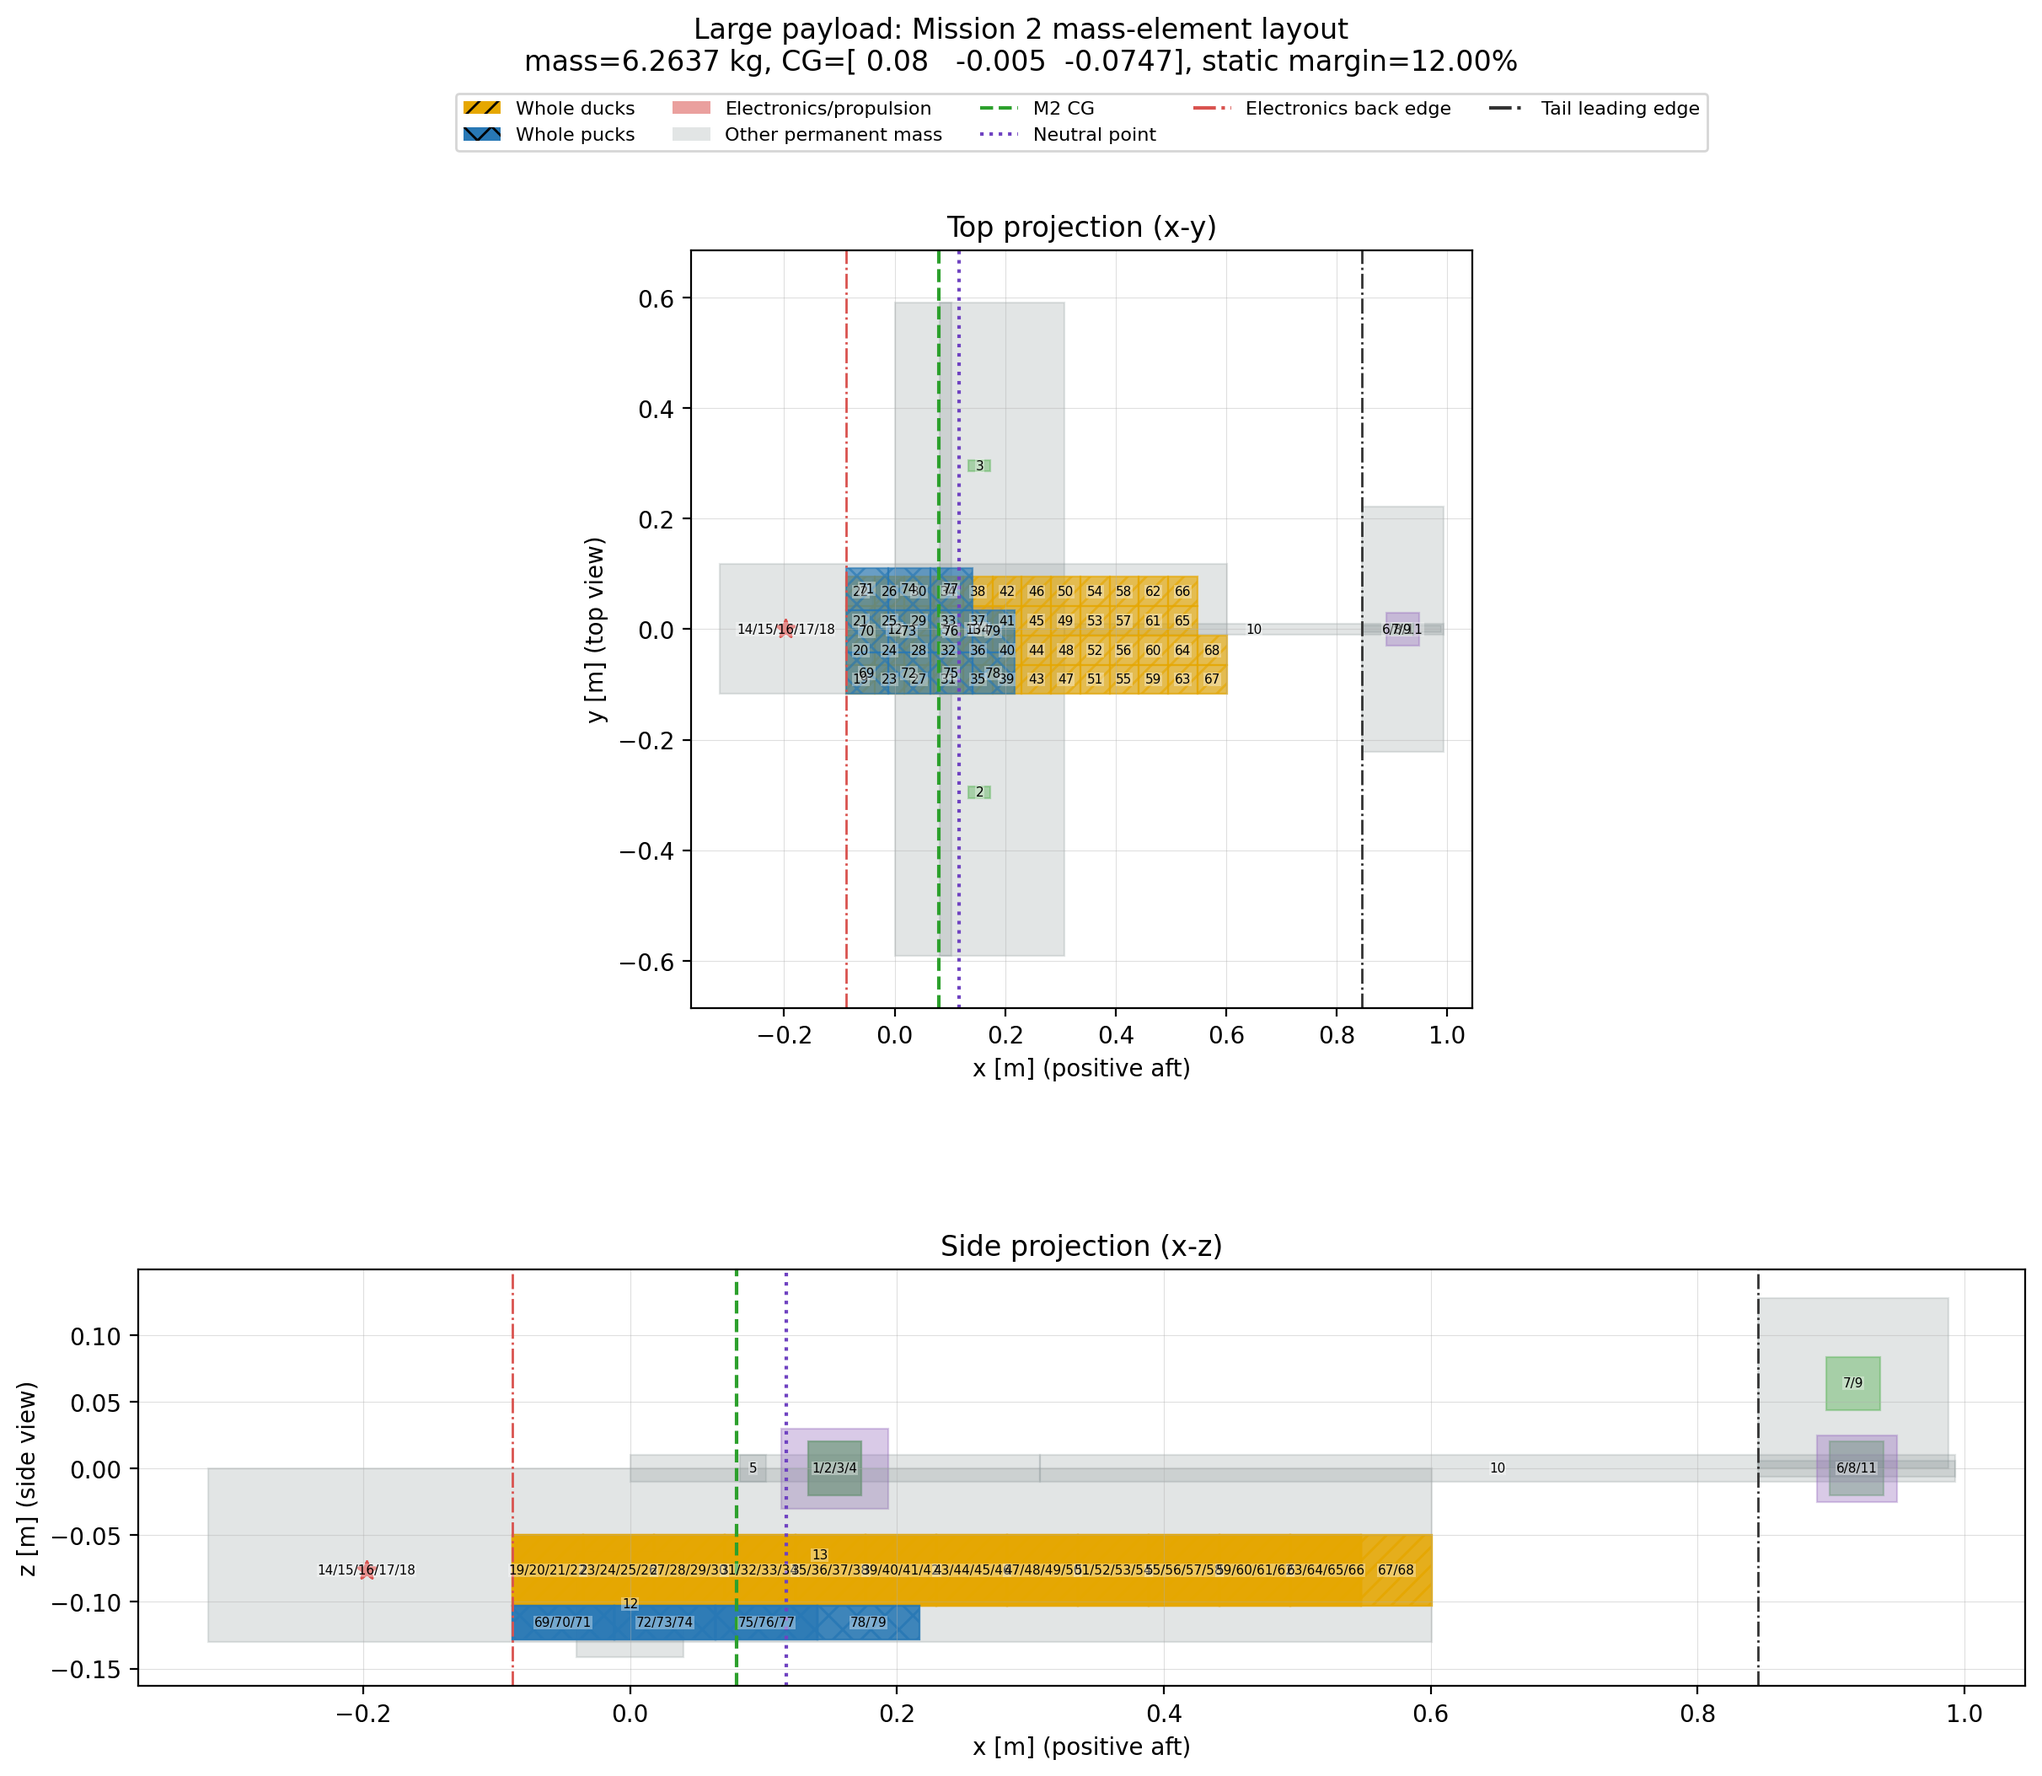
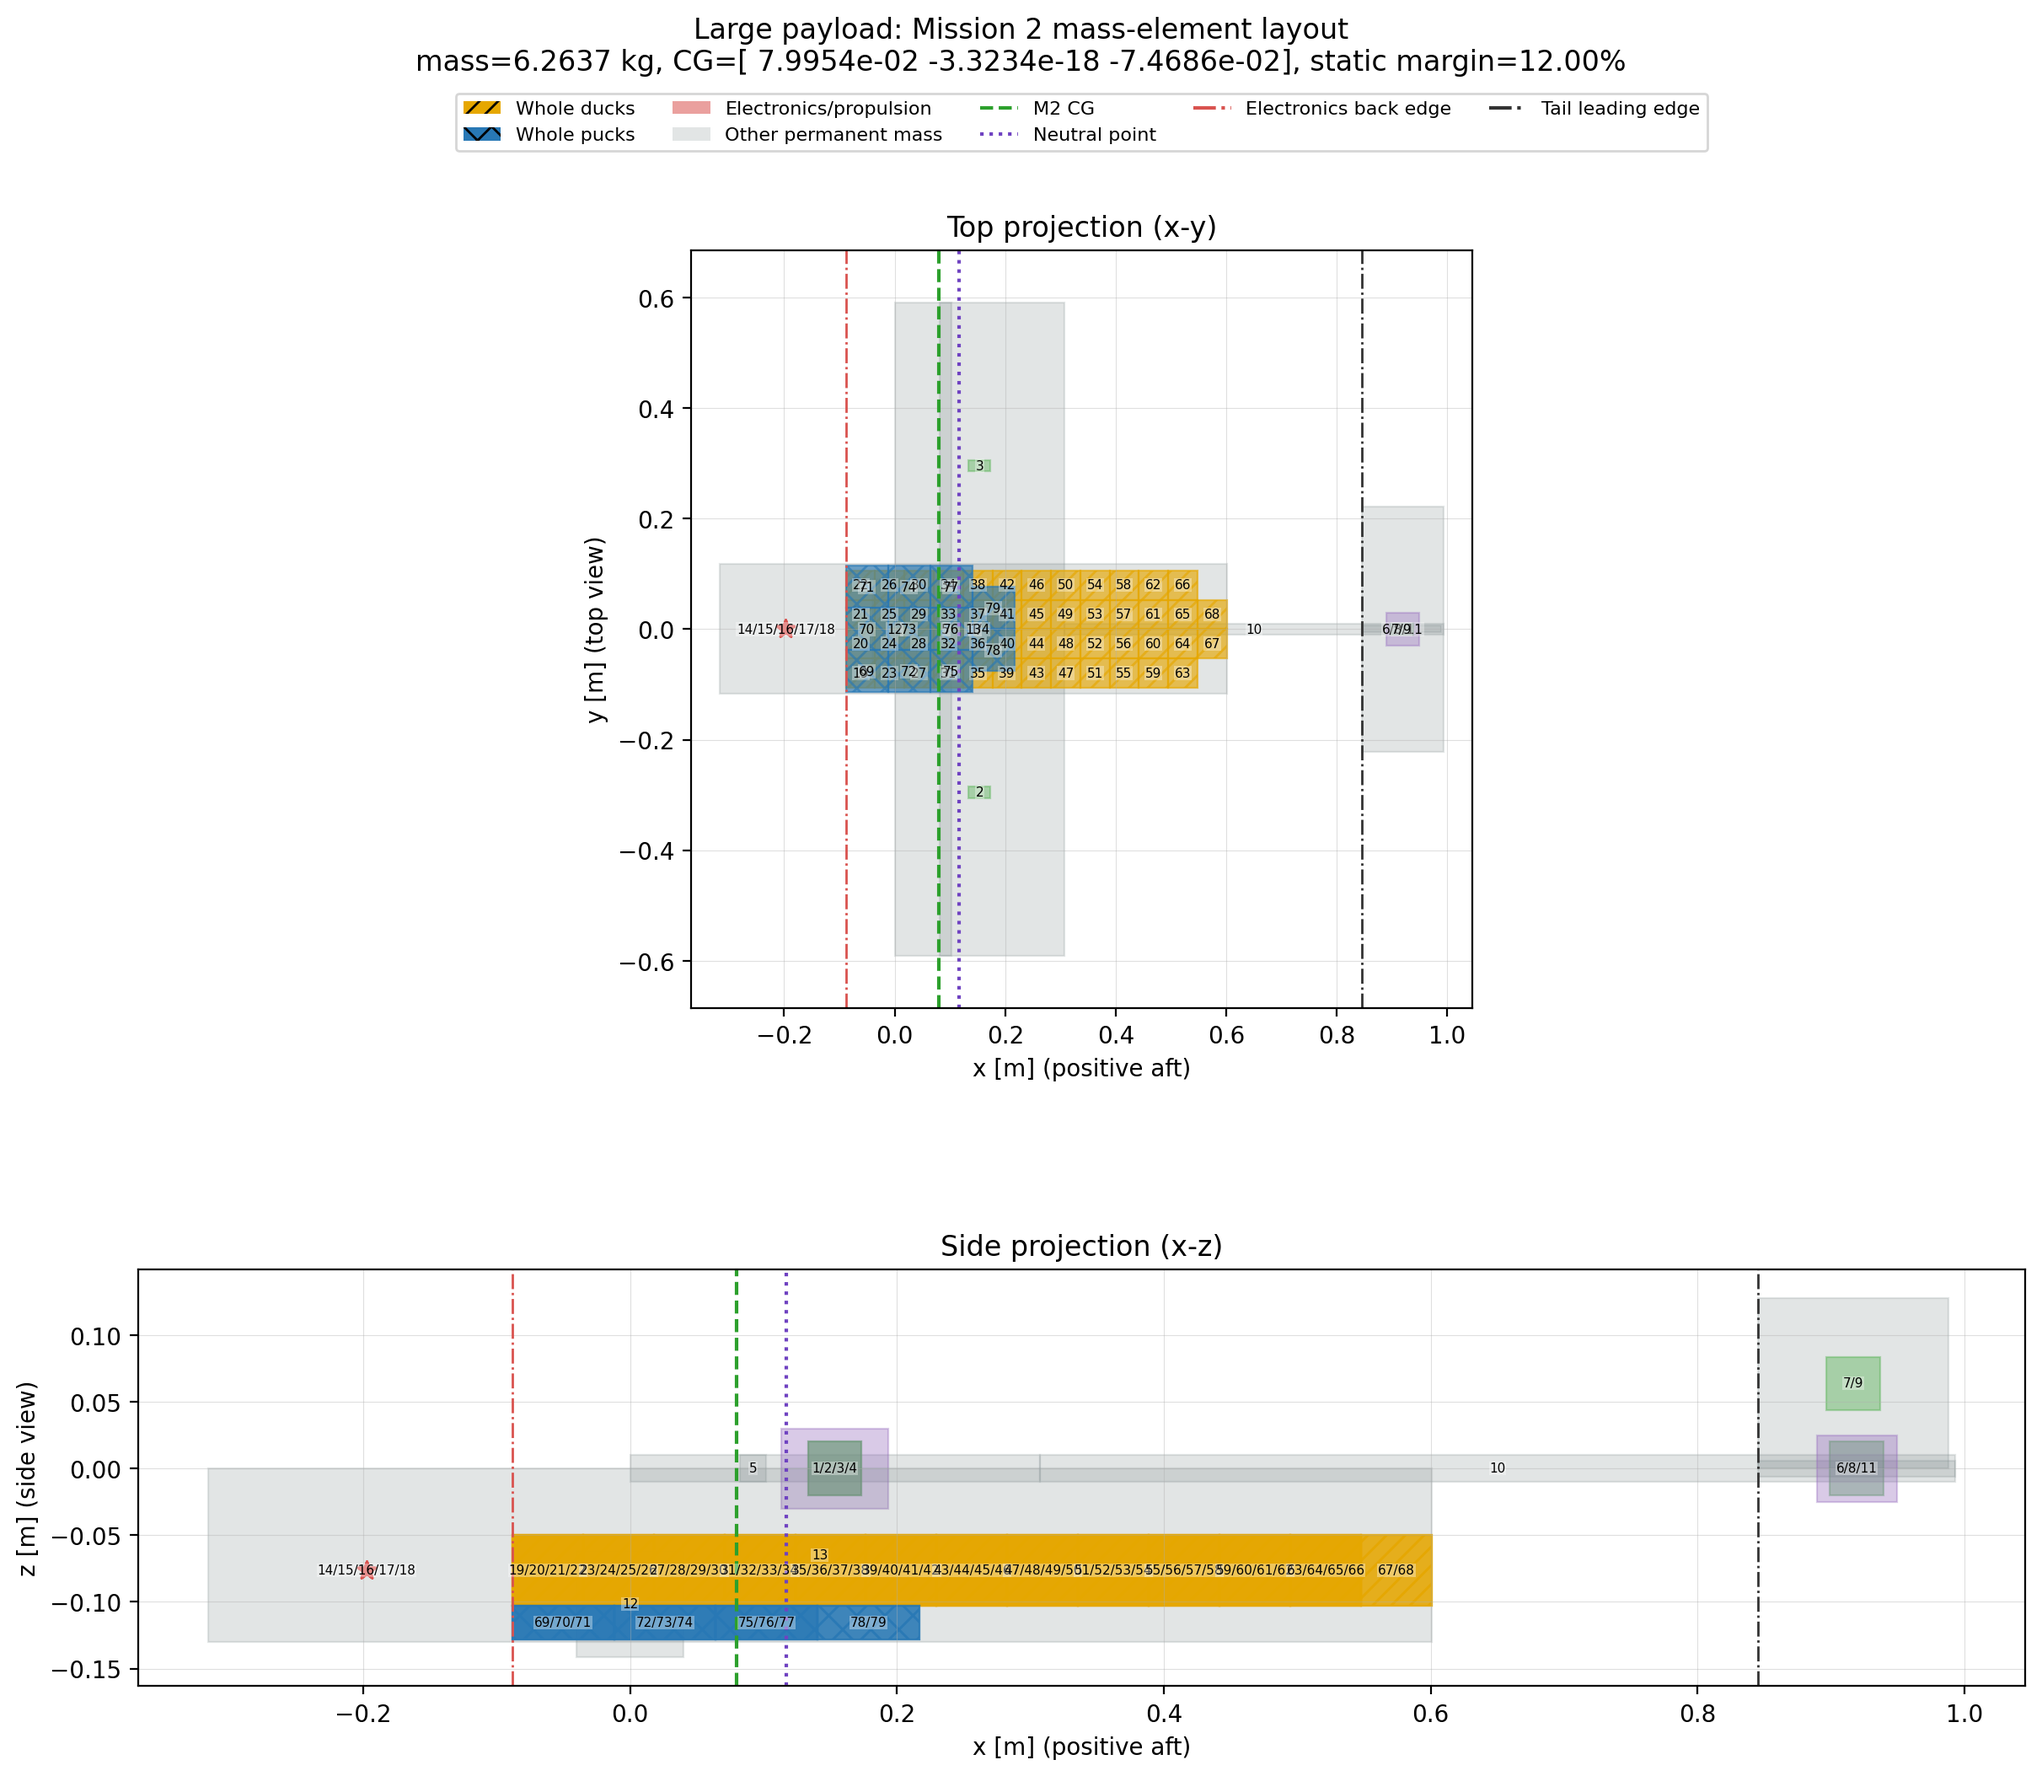
mech done...

Changed region(s): [[0.4024, 0.3085, 0.6191, 0.401], [0.2167, 0.0308, 0.7429, 0.0617]]

diff --git a/src/mech/payload_placement.py b/src/mech/payload_placement.py
@@ -1,9 +1,9 @@
 """Fast, deterministic Mission-2 payload placement inside a local fuselage.
 
-The fuselage is packed before it is installed on the airplane.  Each payload
-type starts immediately behind the electronics, with its first item against
-the negative-y sidewall.  Rows fill across the available width and then move
-aft.  Static margin is deliberately not part of this local packing step.
+The fuselage is packed before it is installed on the airplane. Each payload
+type starts immediately behind the electronics. Rows fill across the available
+width, are centered laterally in the fuselage, and then move aft. Static margin
+is deliberately not part of this local packing step.
 """
 
 from __future__ import annotations
@@ -118,15 +118,27 @@ def _front_to_back_locations(
         )
 
     first_x = electronics_back_x_m + clearance_m + 0.5 * length_x
-    first_y = y_bounds_m[0] + 0.5 * width_y
     pitch_x = length_x + clearance_m
     pitch_y = width_y + clearance_m
+    fuselage_center_y = 0.5 * (y_bounds_m[0] + y_bounds_m[1])
+    row_count = (count + columns - 1) // columns
+    first_y_by_row: list[float] = []
+    for row in range(row_count):
+        items_in_row = min(columns, count - row * columns)
+        occupied_width = (
+            items_in_row * width_y + (items_in_row - 1) * clearance_m
+        )
+        first_y_by_row.append(
+            fuselage_center_y - 0.5 * occupied_width + 0.5 * width_y
+        )
     return tuple(
         _FuselageLocation(
             row=index // columns,
             column=index % columns,
             x_m=float(first_x + (index // columns) * pitch_x),
-            y_m=float(first_y + (index % columns) * pitch_y),
+            y_m=float(
+                first_y_by_row[index // columns] + (index % columns) * pitch_y
+            ),
         )
         for index in range(count)
     )
@@ -158,8 +170,8 @@ def _payload_items(
             category="mission_2_payload",
             notes=(
                 "Fuselage-local front-to-back placement; "
-                f"row {location.row}, column {location.column}; first column "
-                "is against the negative-y fuselage sidewall."
+                f"centered lateral row {location.row}, "
+                f"column {location.column}."
             ),
         )
         for index, location in enumerate(locations, start=1)

diff --git a/src/testing/mech_test.py b/src/testing/mech_test.py
@@ -268,9 +268,8 @@ def main() -> None:
     assert skinny.profile == "skinny"
     assert threshold.profile == "fat"
 
-    # Payload rows begin at the electronics back face and against a sidewall,
-    # fill laterally, then advance aft. The installed fuselage must end before
-    # the leading edge of both tails.
+    # Payload rows begin at the electronics back face, center laterally, then
+    # advance aft. The installed fuselage must end before both tail leading edges.
     payloads = _payloads(result)
     ducks = [item for item in payloads if item.name.startswith("Duck")]
     pucks = [item for item in payloads if item.name.startswith("Puck")]
@@ -282,10 +281,19 @@ def main() -> None:
             first.position_m[0] - 0.5 * first.dimensions_m[0],
             result.electronics_layout.back_edge_x_m,
         )
-        assert np.isclose(
-            first.position_m[1] - 0.5 * first.dimensions_m[1],
-            -half_width,
-        )
+    for payload_type in (ducks, pucks):
+        rows: dict[float, list] = {}
+        for payload in payload_type:
+            rows.setdefault(round(float(payload.position_m[0]), 12), []).append(payload)
+        for row in rows.values():
+            assert np.isclose(sum(item.position_m[1] for item in row), 0.0)
+            negative_edge = min(
+                item.position_m[1] - 0.5 * item.dimensions_m[1] for item in row
+            )
+            positive_edge = max(
+                item.position_m[1] + 0.5 * item.dimensions_m[1] for item in row
+            )
+            assert np.isclose(negative_edge, -positive_edge)
     assert np.isclose(ducks[0].position_m[1], ducks[1].position_m[1])
     assert np.isclose(
         ducks[1].position_m[0] - ducks[0].position_m[0],

diff --git a/src/testing/mech_test_design_sweep.py b/src/testing/mech_test_design_sweep.py
@@ -231,7 +231,9 @@ def _print_report(case: DesignCase, result: MechanicalResult) -> None:
             f"\n{mission}: mass={properties.total_mass_kg:.6f} kg, "
             f"weight={properties.weight_n:.6f} N"
         )
-        print(f"    CG={np.array2string(properties.cg_m, precision=8)} m")
+        print(
+            f"    CG={np.array2string(np.asarray(properties.cg_m), precision=8)} m"
+        )
         print(
             f"    static margin={100 * properties.static_margin:.4f}% "
             f"(feasible={properties.static_margin_feasible}), "
@@ -449,7 +451,8 @@ def _save_m2_layout(
     )
     figure.suptitle(
         f"{case.label}: Mission 2 mass-element layout\n"
-        f"mass={m2.total_mass_kg:.4f} kg, CG={np.array2string(m2.cg_m, precision=4)}, "
+        f"mass={m2.total_mass_kg:.4f} kg, "
+        f"CG={np.array2string(np.asarray(m2.cg_m), precision=4)}, "
         f"static margin={100 * m2.static_margin:.2f}%",
         fontsize=12,
     )

diff --git a/src/mech/README.md b/src/mech/README.md
@@ -146,9 +146,10 @@ translated onto the airplane, its absolute envelope is available through
 M2 packing is deterministic and does not use the airplane CG or tail position:
 
 1. The first item of each payload type touches the electronics back face.
-2. Its negative-y face touches the negative-y fuselage sidewall.
-3. A row fills laterally across the fuselage, using bounding-box width plus
-   configured clearance as pitch.
+2. Each row's occupied width is centered on the fuselage centerline, including
+   partial final rows and full rows with unused side clearance.
+3. A row fills from negative `y` toward positive `y`, using bounding-box width
+   plus configured clearance as pitch.
 4. When the row is full, the next row moves aft by bounding-box length plus
    clearance.
 5. Every complete payload bounding box must remain inside the fuselage width.
